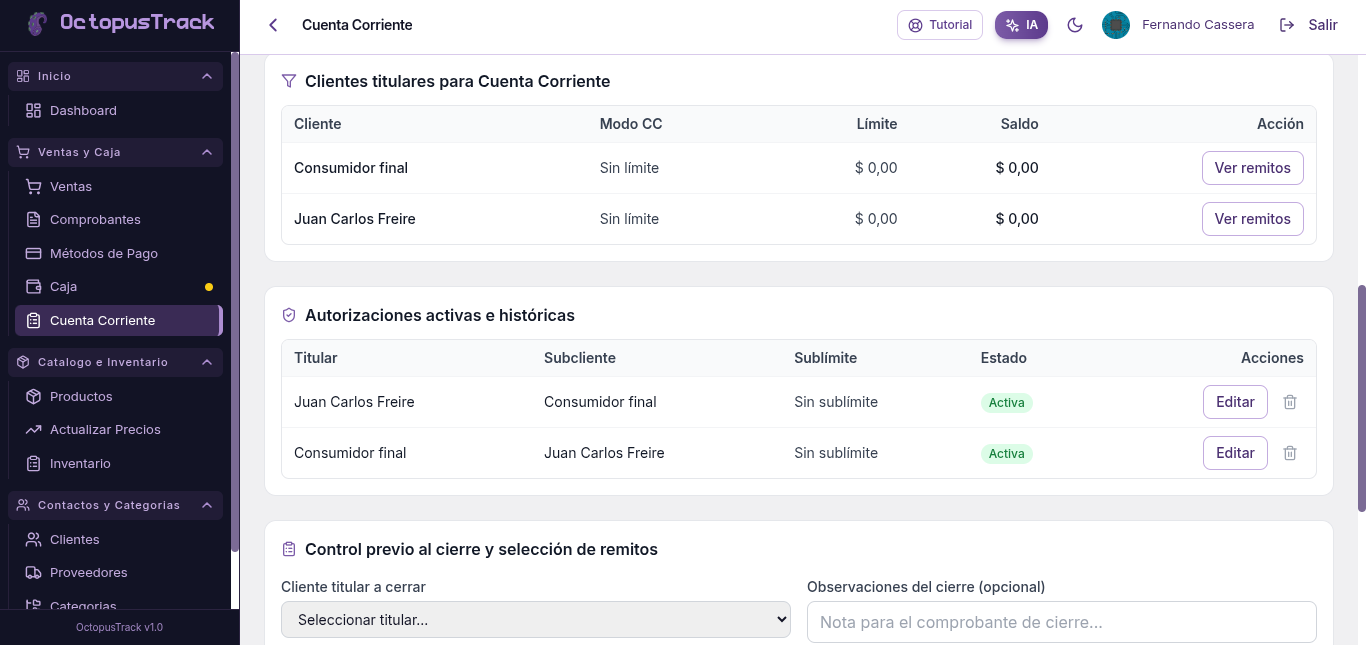
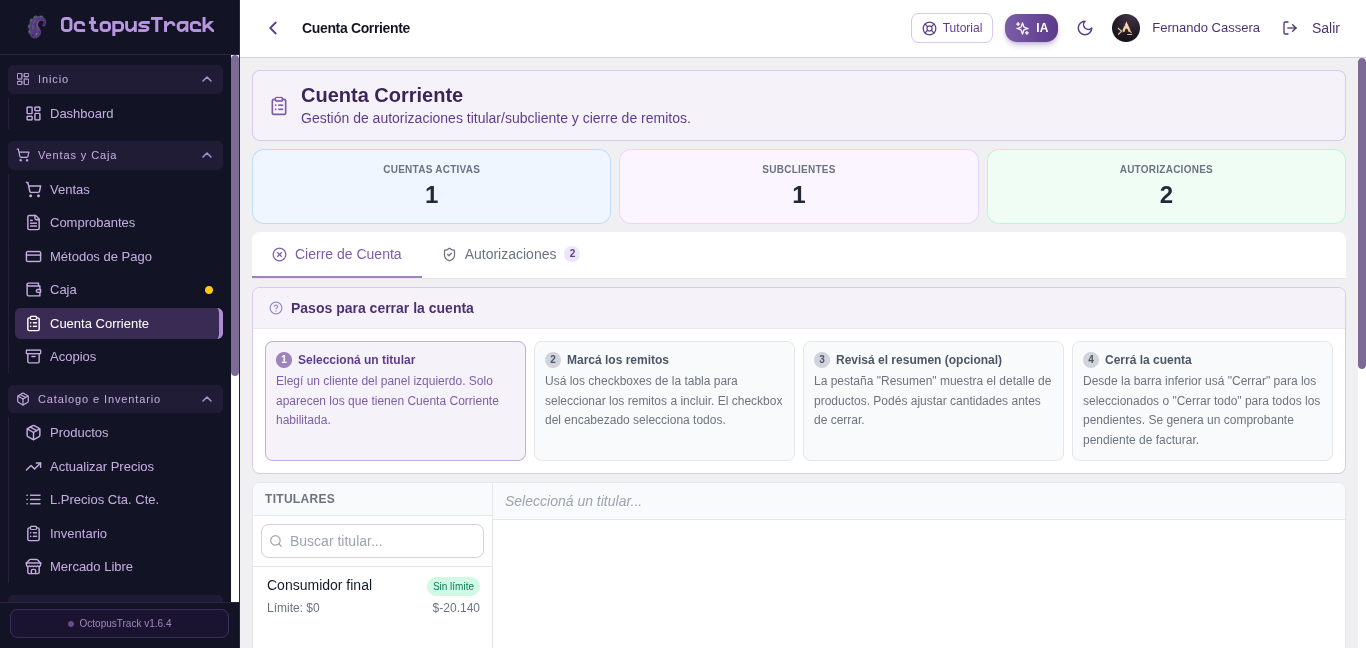
docs: update README with cover image, module table, and real screenshots
- Add portada.png as full-width cover at the top
- Replace numbered emoji list with scannable module table
- Fix all broken screenshot links (8 references pointed to non-existent files)
- Add 10 new screenshots that existed but were missing from README
- Remove deleted screenshots from tracking

diff --git a/README.md b/README.md
@@ -1,73 +1,43 @@
-# 🐙 OctopusTrack
+<p align="center">
+  <img src="docs/screenshots/portada.png" alt="OctopusTrack — ERP comercial" width="100%" />
+</p>
 
-Sistema ERP para sanitarios, ferreterías y corralones.
+# OctopusTrack
 
----
-
-## 🚀 Probar el sistema
-
-🌐 **Demo online:** https://app.octopustrack.shop
-
-📲 **Acceso de prueba con autorización previa por WhatsApp:**
-
-- WhatsApp: **+54 9 2254 59-6618**
-- Link directo: https://wa.me/5492254596618
-
-> Al ingresar, solicitá acceso por WhatsApp para habilitar la prueba.
+ERP comercial para sanitarios, ferreterías y corralones. Ventas, facturación electrónica ARCA, stock, cuenta corriente y rentabilidad, todo en un solo sistema.
 
 ---
 
-## ✨ ¿Qué tiene hoy OctopusTrack? (paso a paso)
+## Probar el sistema
 
-1. 🧾 **Cotizaciones**
-   - Creación rápida de presupuestos.
-   - Conversión posterior a remito o factura.
+**Demo online:** https://app.octopustrack.shop
 
-2. 🧷 **Remitos con y sin precios**
-   - Emisión de remitos según necesidad operativa.
-   - Ideal para entrega con control comercial.
+Solicitá acceso de prueba por WhatsApp: [+54 9 2254 59-6618](https://wa.me/5492254596618)
 
-3. 🧮 **Facturación electrónica ARCA (vía AFIP SDK)**
-   - Emisión de comprobantes fiscales.
-   - Flujo integrado con datos fiscales del sistema.
-
-4. 💸 **Actualización masiva de precios**
-   - Herramientas para modificar grandes volúmenes de productos.
-   - Pensado para rubros con listas cambiantes.
-
-5. 🤝 **Cuenta corriente por cliente**
-   - Gestión de saldo, movimientos y seguimiento comercial.
-
-6. 🏗 **Cuenta corriente + retiro autorizado de mercadería**
-   - Un cliente titular puede autorizar a otro cliente a retirar mercadería.
-   - Caso real: arquitecto titular + instalador/plomero/electricista autorizado.
-
-7. 💳 **Métodos de pago**
-   - Configuración de métodos y registro operativo.
-
-8. 👥 **Clientes y proveedores**
-   - Gestión completa de contactos comerciales.
-
-9. 🤖 **Agente de IA**
-   - Consulta de precios por lenguaje natural.
-   - Asistencia para crear cotizaciones.
-   - Módulo en evolución continua para nuevas mejoras.
-
-10. 📦 **Inventario y stock**
-    - Control de stock y conteo.
-    - Reportes para contabilizar mercadería.
-    - Reportes exportables para compartir con proveedores.
-
-11. 📊 **Área de reportes**
-    - Reportes operativos del negocio para análisis diario.
-
-12. 🛟 **Soporte y seguimiento de incidencias**
-    - El usuario puede enviar feedback/problemas desde el sistema.
-    - El mensaje se integra con **Linear App** para gestión de tickets.
+> Al ingresar, pedí habilitación por WhatsApp para activar la prueba.
 
 ---
 
-## 🖼 Capturas del sistema
+## Qué tiene hoy
+
+| Módulo | Qué hace |
+|--------|----------|
+| **Ventas y comprobantes** | Cotizaciones, remitos y facturas electrónicas ARCA; conversión entre tipos en un click |
+| **Catálogo y precios** | ABM de productos con precio lista, bonificaciones, cargo extra, ganancia e IVA; actualización masiva |
+| **Inventario** | Órdenes de pedido por proveedor, control de stock, reportes exportables en PDF |
+| **Caja diaria** | Registro de movimientos reales de caja, apertura y cierre por turno |
+| **Cuenta Corriente** | Saldo por cliente; el titular puede autorizar retiro a un subcliente (p. ej. arquitecto → plomero) |
+| **Acopios** | Anticipos de clientes para obras; seguimiento de importe retirado y saldo disponible |
+| **Listas de precios** | Snapshot del catálogo para compartir con clientes en cuenta corriente |
+| **Métodos de pago** | Configuración de medios de cobro: efectivo, cheque, débito, crédito, MP, transferencia |
+| **Rentabilidad** | KPIs de margen bruto, margen neto, COGS y gastos operativos por período |
+| **Mercado Libre** | Publicación y sincronización de precios y stock via OAuth + webhook |
+| **Agente IA** | Consulta de precios por lenguaje natural y asistencia para armar cotizaciones |
+| **Soporte** | Feedback desde el sistema, integrado con Linear App para gestión de tickets |
+
+---
+
+## Capturas del sistema
 
 ### Login
 ![Login](docs/screenshots/login.png)
@@ -75,54 +45,57 @@ Sistema ERP para sanitarios, ferreterías y corralones.
 ### Dashboard
 ![Dashboard](docs/screenshots/dashboard.png)
 
-### Productos
-![Productos](docs/screenshots/productos.png)
-
-### Actualización Masiva de Precios
-![Actualización de Precios](docs/screenshots/actualizar-bd.png)
-
-### Clientes
-![Clientes](docs/screenshots/clientes.png)
-
-### Proveedores
-![Proveedores](docs/screenshots/proveedores.png)
-
-### Categorías
-![Categorías](docs/screenshots/categorias.png)
+### Ventas — Nuevo comprobante
+![Ventas](docs/screenshots/ventas.png)
 
 ### Comprobantes
 ![Comprobantes](docs/screenshots/comprobantes.png)
 
+### Productos
+![Productos](docs/screenshots/productos.png)
+
+### Nuevo Producto
+![Crear Producto](docs/screenshots/crear-producto.png)
+
+### Actualizar Precios
+![Actualizar Precios](docs/screenshots/actualizar-precios.png)
+
+### Listas de Precios — Cuenta Corriente
+![Listas de Precios](docs/screenshots/listadeprecios-ctate.png)
+
+### Inventario
+![Inventario](docs/screenshots/inventario.png)
+
+### Caja Diaria
+![Caja](docs/screenshots/caja-diaria.png)
+
 ### Cuenta Corriente
 ![Cuenta Corriente](docs/screenshots/cta-cte.png)
 
-### Resumen Cuenta Corriente
-![Resumen Cuenta Corriente](docs/screenshots/resumen-cta-cte.png)
-
-### Caja
-![Caja](docs/screenshots/caja.png)
+### Acopios
+![Acopios](docs/screenshots/acopios.png)
 
 ### Métodos de Pago
 ![Métodos de Pago](docs/screenshots/metodosdepago.png)
 
-### Inventario
-![Inventario](docs/screenshots/inventario.png)
+### Mercado Libre
+![Mercado Libre](docs/screenshots/mercadolibre.png)
 
 ### PDF — Cotización
 ![Cotización PDF](docs/screenshots/pdf-cotizacion.png)
 
 ### PDF — Remito
-![Remito PDF](docs/screenshots/pdf-remit.png)
+![Remito PDF](docs/screenshots/pdf-remito.png)
 
-### PDF — Factura
-![Factura PDF](docs/screenshots/pdf-factura.png)
+### PDF — Factura B (ARCA)
+![Factura PDF](docs/screenshots/pdf-fac-arca.png)
 
-### PDF — Inventario
-![Inventario PDF](docs/screenshots/pdf-inventario.png)
+### PDF — Orden de Pedido
+![Orden de Pedido PDF](docs/screenshots/pdf-inventario.png)
 
 ---
 
-## 🛒 Integración Mercado Libre
+## Integración Mercado Libre
 
 OctopusTrack puede conectarse a una cuenta de Mercado Libre para publicar productos del inventario y sincronizar precios y stock automáticamente.
 
@@ -130,7 +103,7 @@ OctopusTrack puede conectarse a una cuenta de Mercado Libre para publicar produc
 
 1. Crear una aplicación en el [DevCenter de ML](https://developers.mercadolibre.com.ar/devcenter):
    - **Redirect URI**: `https://<tu-dominio>/api/v1/meli/oauth/callback`
-   - Activar el topic **`orders_v2`** en Notifications y configurar la URL: `https://<tu-dominio>/api/v1/meli/notifications`
+   - Activar el topic **`orders_v2`** en Notifications con URL: `https://<tu-dominio>/api/v1/meli/notifications`
    - Anotar **App ID** (client_id) y **Secret Key** (client_secret)
 
 2. Generar una clave Fernet para cifrar los tokens en la base de datos:
@@ -152,10 +125,6 @@ MELI_AUTH_BASE=https://auth.mercadolibre.com.ar
 MELI_TOKEN_ENCRYPTION_KEY=<clave Fernet generada arriba>
 ```
 
-### Usuarios de prueba (desarrollo)
-
-ML permite crear sellers y compradores de prueba desde el DevCenter → *Usuarios de prueba*. Con esos usuarios podés hacer el flujo completo (OAuth, publicar, webhook de venta) sin afectar cuentas reales.
-
 ### Arquitectura de la sincronización
 
 ```
@@ -174,16 +143,18 @@ Webhook ML (orders_v2)
 - El refresh_token es de un solo uso; se rota atómicamente con `SELECT … FOR UPDATE`.
 - Los webhooks se procesan con idempotencia por `meli_order_id`.
 
+### Usuarios de prueba (desarrollo)
+
+ML permite crear sellers y compradores de prueba desde el DevCenter → *Usuarios de prueba*. Con esos usuarios podés hacer el flujo completo (OAuth, publicar, webhook de venta) sin afectar cuentas reales.
+
 ---
 
-## 💜 Colaboración
+## Colaboración
 
-Este proyecto está en crecimiento constante.
+Este proyecto está en crecimiento constante. Si querés colaborar con ideas, feedback funcional o mejoras:
 
-Si querés colaborar con ideas, feedback funcional o mejoras:
-
-- abrí un issue
-- o escribinos por WhatsApp para coordinar una prueba guiada
+- Abrí un issue en este repositorio
+- O escribinos por [WhatsApp](https://wa.me/5492254596618) para coordinar una prueba guiada
 
 ---
 
